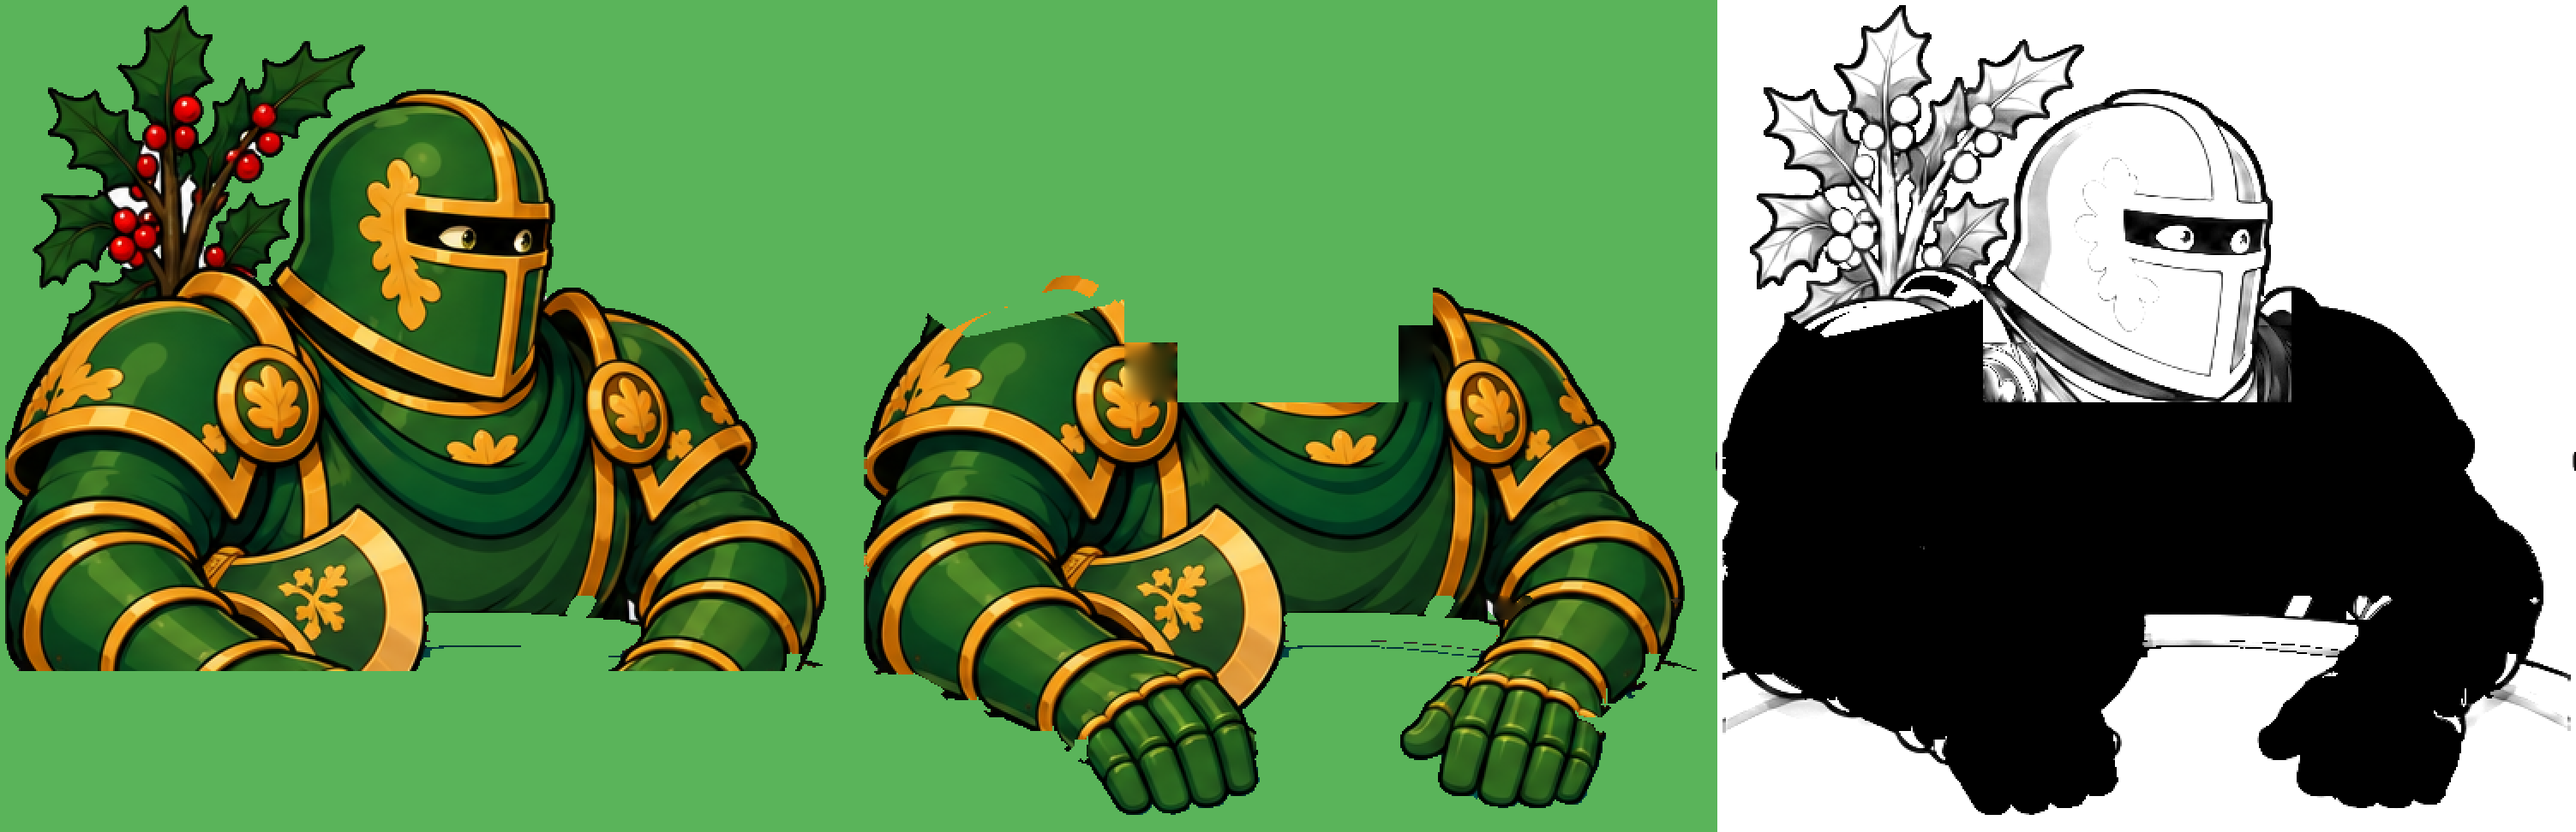
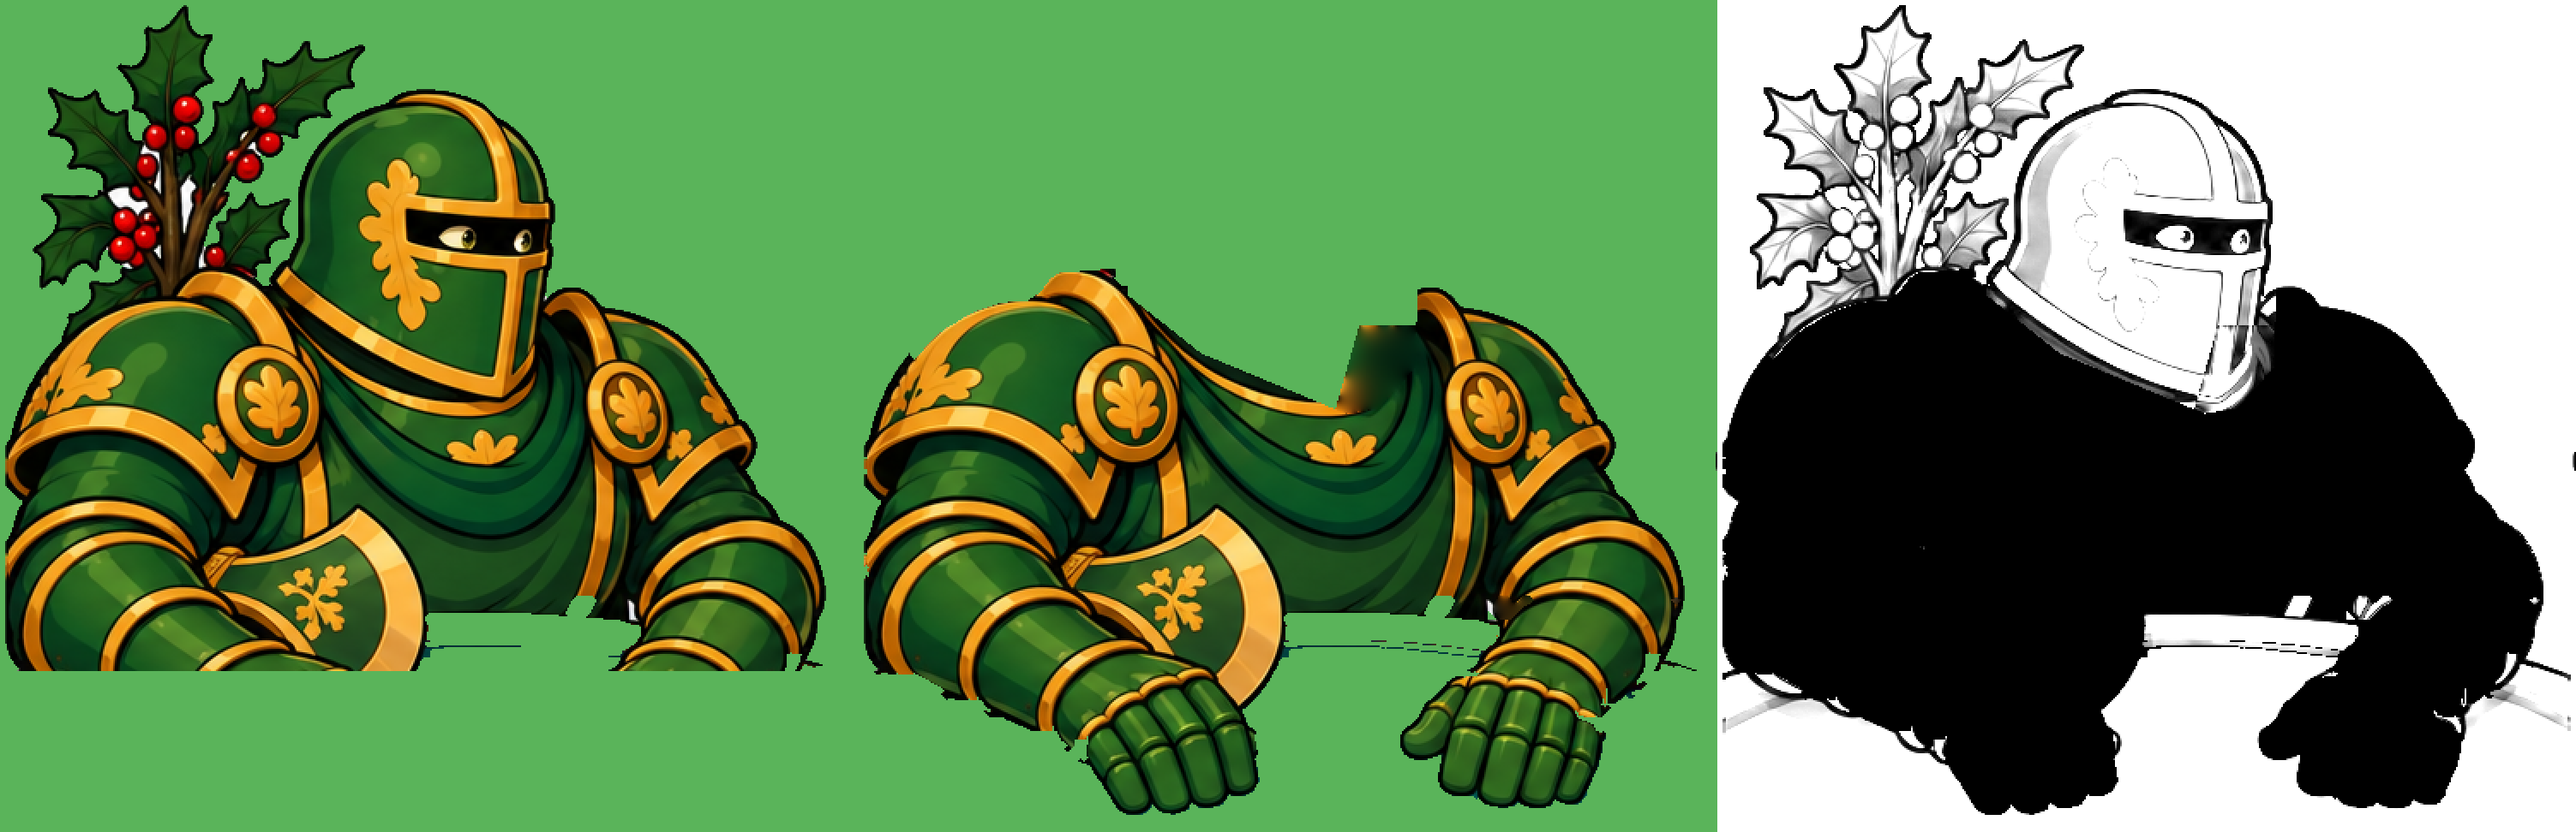
Green Knight: the helm cut by its outline, no seam at the collar
The helmed master head carried the face sheet's own shoulder plates,
laid over a box cut from his body, so a hard seam ran across his collar
and shoulder plates. He is now cut the way his return already was:
head_poly takes only the drawn helm from the body, keep_poly keeps only
the helm of the master, and fill_poly covers the gap the narrower
face-on helm leaves by his near plate.

The face-on heads (look_at_you, both looks) carried their own shoulders
too: pose_rig.py gains master "head_keep" (a polygon per head, the same
cut as keep_poly, shared in keep_only()).

The holly's outline ran across the far shoulder plate, which put a
piece of the plate in the prop (tilting with the holly tell) and left a
jagged line; its foot now follows the plate's own outline.

Rebuilt with pose_rig.py, paper_flecks.py and web_half.py; only the
body, master, holly, torso_over and viewer heads change (the reaction
frames keep their own heads and are as committed).

Claude-Session: https://claude.ai/code/session_01XaGDDs9p6fbcRRnvtAvY7F

Changed region(s): [[0.3403, 0.3086, 0.5569, 0.4938], [0.6806, 0.3086, 0.8972, 0.4938]]

diff --git a/art-tools/pose_rig.py b/art-tools/pose_rig.py
@@ -82,6 +82,8 @@ by hand where the fit cannot find it (Silver: the parrot in the box).
 Master "head_poly" (rest-pose pixels) cuts the pose's own head by an outline
 instead of head_box, and "keep_poly" (master pixels) keeps only that much of
 the master head: the returned Green Knight's shoulder plates stay the body's.
+"head_keep" ({state: polygon in that head's own pixels}) does the same for
+the other "heads".
 "spare_red" leaves red cloth out of both (Arthur's mantle stays the body's).
 Master "biggest" keeps only the master head's largest piece (a sliver of the
 next piece on the face sheet caught at its edge).
@@ -392,6 +394,20 @@ def upscale(rgba, k):
     return np.dstack([np.clip(rgb, 0, 255), np.clip(big[..., 3:], 0, 255)]).astype(np.uint8)
 
 
+def keep_only(im, poly, m):
+    """Keep only poly of a head drawn on the face sheet (its own shoulders are
+    not the body's), less the sheet's white caught between curls."""
+    ma_ = np.array(im.convert('RGBA'))
+    ma_[..., 3] = np.where(poly_mask(ma_.shape[:2], poly), ma_[..., 3], 0)
+    if not m.get('keep_white'):                            # (not where white is drawn: the Martian's eye highlights)
+        ma_[..., 3] = np.where(ma_[..., :3].min(-1) > 225, 0, ma_[..., 3])
+    if m.get('spare_red'):
+        c_ = ma_[..., :3].astype(int)
+        red = (c_[..., 0] > 110) & (c_[..., 1] * 3 < c_[..., 0]) & (c_[..., 2] * 3 < c_[..., 0])
+        ma_[..., 3] = np.where(ndimage.binary_dilation(red, iterations=2), 0, ma_[..., 3])
+    return Image.fromarray(ma_)
+
+
 def main(spec_path):
     spec = json.load(open(spec_path))
     global WOOD_ROWS_ONLY, NO_WOOD
@@ -672,15 +688,7 @@ def main(spec_path):
             box_[..., 3] = np.where(box_[..., :3].min(-1) > 215, 0, box_[..., 3])
             mimg = Image.fromarray(ma_)
         if 'keep_poly' in m:                               # only the head and neck: its own shoulders are not the body's
-            ma_ = np.array(mimg.convert('RGBA'))
-            ma_[..., 3] = np.where(poly_mask(ma_.shape[:2], m['keep_poly']), ma_[..., 3], 0)
-            if not m.get('keep_white'):                    # (not where white is drawn: the Martian's eye highlights)
-                ma_[..., 3] = np.where(ma_[..., :3].min(-1) > 225, 0, ma_[..., 3])    # sheet white caught between curls
-            if m.get('spare_red'):
-                c_ = ma_[..., :3].astype(int)
-                red = (c_[..., 0] > 110) & (c_[..., 1] * 3 < c_[..., 0]) & (c_[..., 2] * 3 < c_[..., 0])
-                ma_[..., 3] = np.where(ndimage.binary_dilation(red, iterations=2), 0, ma_[..., 3])
-            mimg = Image.fromarray(ma_)
+            mimg = keep_only(mimg, m['keep_poly'], m)
         if m.get('biggest'):                               # a sliver of the next piece on the sheet: not him
             ma_ = np.array(mimg.convert('RGBA'))
             ma_[..., 3] = np.where(biggest(ma_[..., 3] > 0), ma_[..., 3], 0)
@@ -1032,7 +1040,10 @@ def main(spec_path):
             hs, (dx, dy) = 1.0, fit_by_collar(os.path.join(HERE, m['piece']), piece)
         dx, dy = dx + m.get('head_nudge', {}).get(state, [0, 0])[0], dy + m.get('head_nudge', {}).get(state, [0, 0])[1]
         f = f'head_{state}.png'
-        face_rig.cut_below(Image.open(piece), (m['cut_below'] - dy) / hs).save(os.path.join(HERE, m['layers'], f))
+        himg = face_rig.cut_below(Image.open(piece), (m['cut_below'] - dy) / hs)
+        if state in m.get('head_keep', {}):                # its own shoulders go too, as the master's do (keep_poly)
+            himg = keep_only(himg, m['head_keep'][state], m)
+        himg.save(os.path.join(HERE, m['layers'], f))
         head_files[f] = os.path.join(HERE, m['layers'], f)
         pw, ph = Image.open(piece).size
         x0, y0 = X(hb[0]) + mx, Y(hb[1]) + my

diff --git a/art-tools/green_knight_parts/README.md b/art-tools/green_knight_parts/README.md
@@ -20,7 +20,14 @@ a quarter bigger as the Cyclops is (`scale` 1.25, `origin_x` 225): the giant.
   talks with his helm: `speech.nod` in anim.json nods it on each open sound
   (`web/puppet/face.ts`).
 - **The holly branch** is a prop of the rest pose on the torso, drawn over
-  the master helm.
+  the master helm. Its outline's foot runs along the far shoulder plate's own
+  dark outline: cut across the plate, the plate tilted with the holly and the
+  cut showed as a jagged line.
+- **His helm is cut by an outline, not a box**, as his return's head is
+  (`master.head_poly`, `keep_poly` on the master helm, `head_keep` on the
+  face-on helm): the face sheet's own shoulder plates made a seam across his
+  collar. `fill_poly` fills the gap the narrower face-on helm leaves by his
+  near shoulder plate (hidden under the master helm).
 - **Felt**: `felt_blue` and `felt_teal` (this sheet's felt is the bluest
   yet; his armour is green, so the plain felt test would take it).
 - **Knocked out** (D6) shows the blow as a small red nick at his neck under

diff --git a/art-tools/green_knight_bare_parts/README.md b/art-tools/green_knight_bare_parts/README.md
@@ -17,8 +17,9 @@ tells and idles.
     python3 art-tools/web_half.py green_knight_bare
 
 - **His head is cut by an outline, not a box** (`master.head_poly`, and
-  `keep_poly` on the master head): a box took a bite out of his shoulder
-  plate and the master head's own shoulders made a seam.
+  `keep_poly` on the master head, `head_keep` on the face-on head): a box
+  took a bite out of his shoulder plate and the master head's own shoulders
+  made a seam.
 - Pose sheet C drew C1 and C2 touching: split at x 505, each keeps its
   biggest piece. D6 stands with no felt: placed by hand (`reg` 0, 0).
 - **Face**: eyes half, closed, viewer, down, side, narrow; brows raised,
